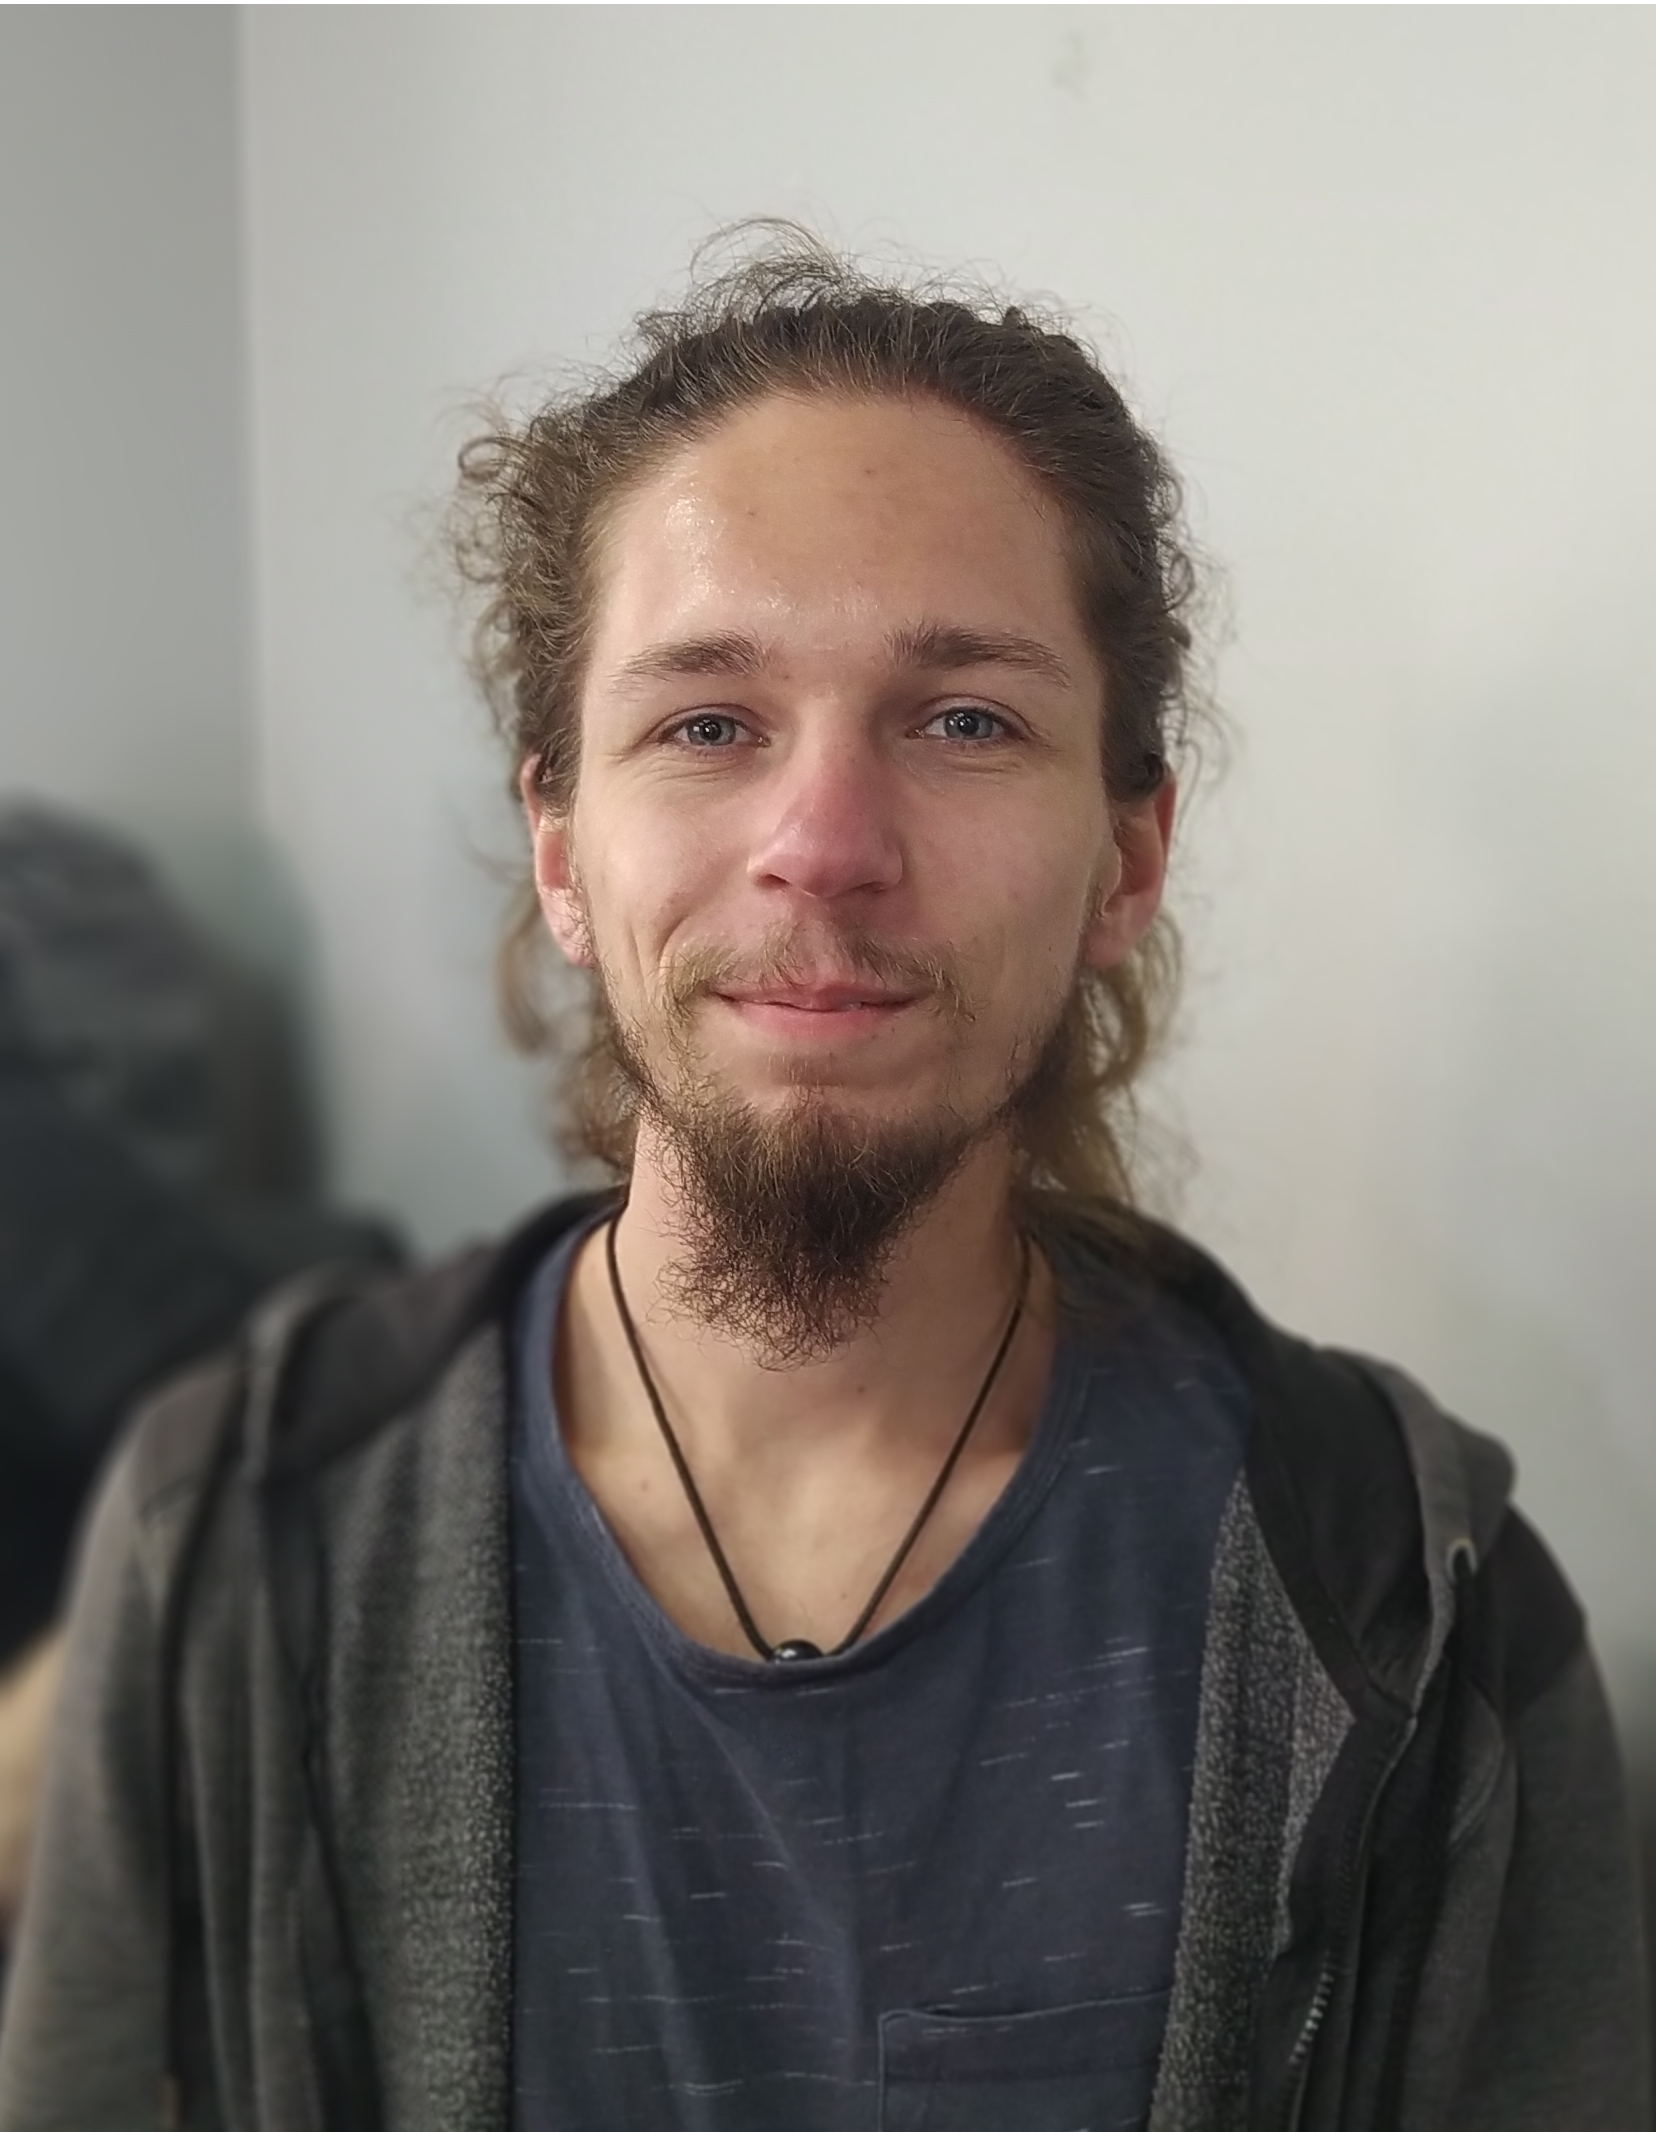
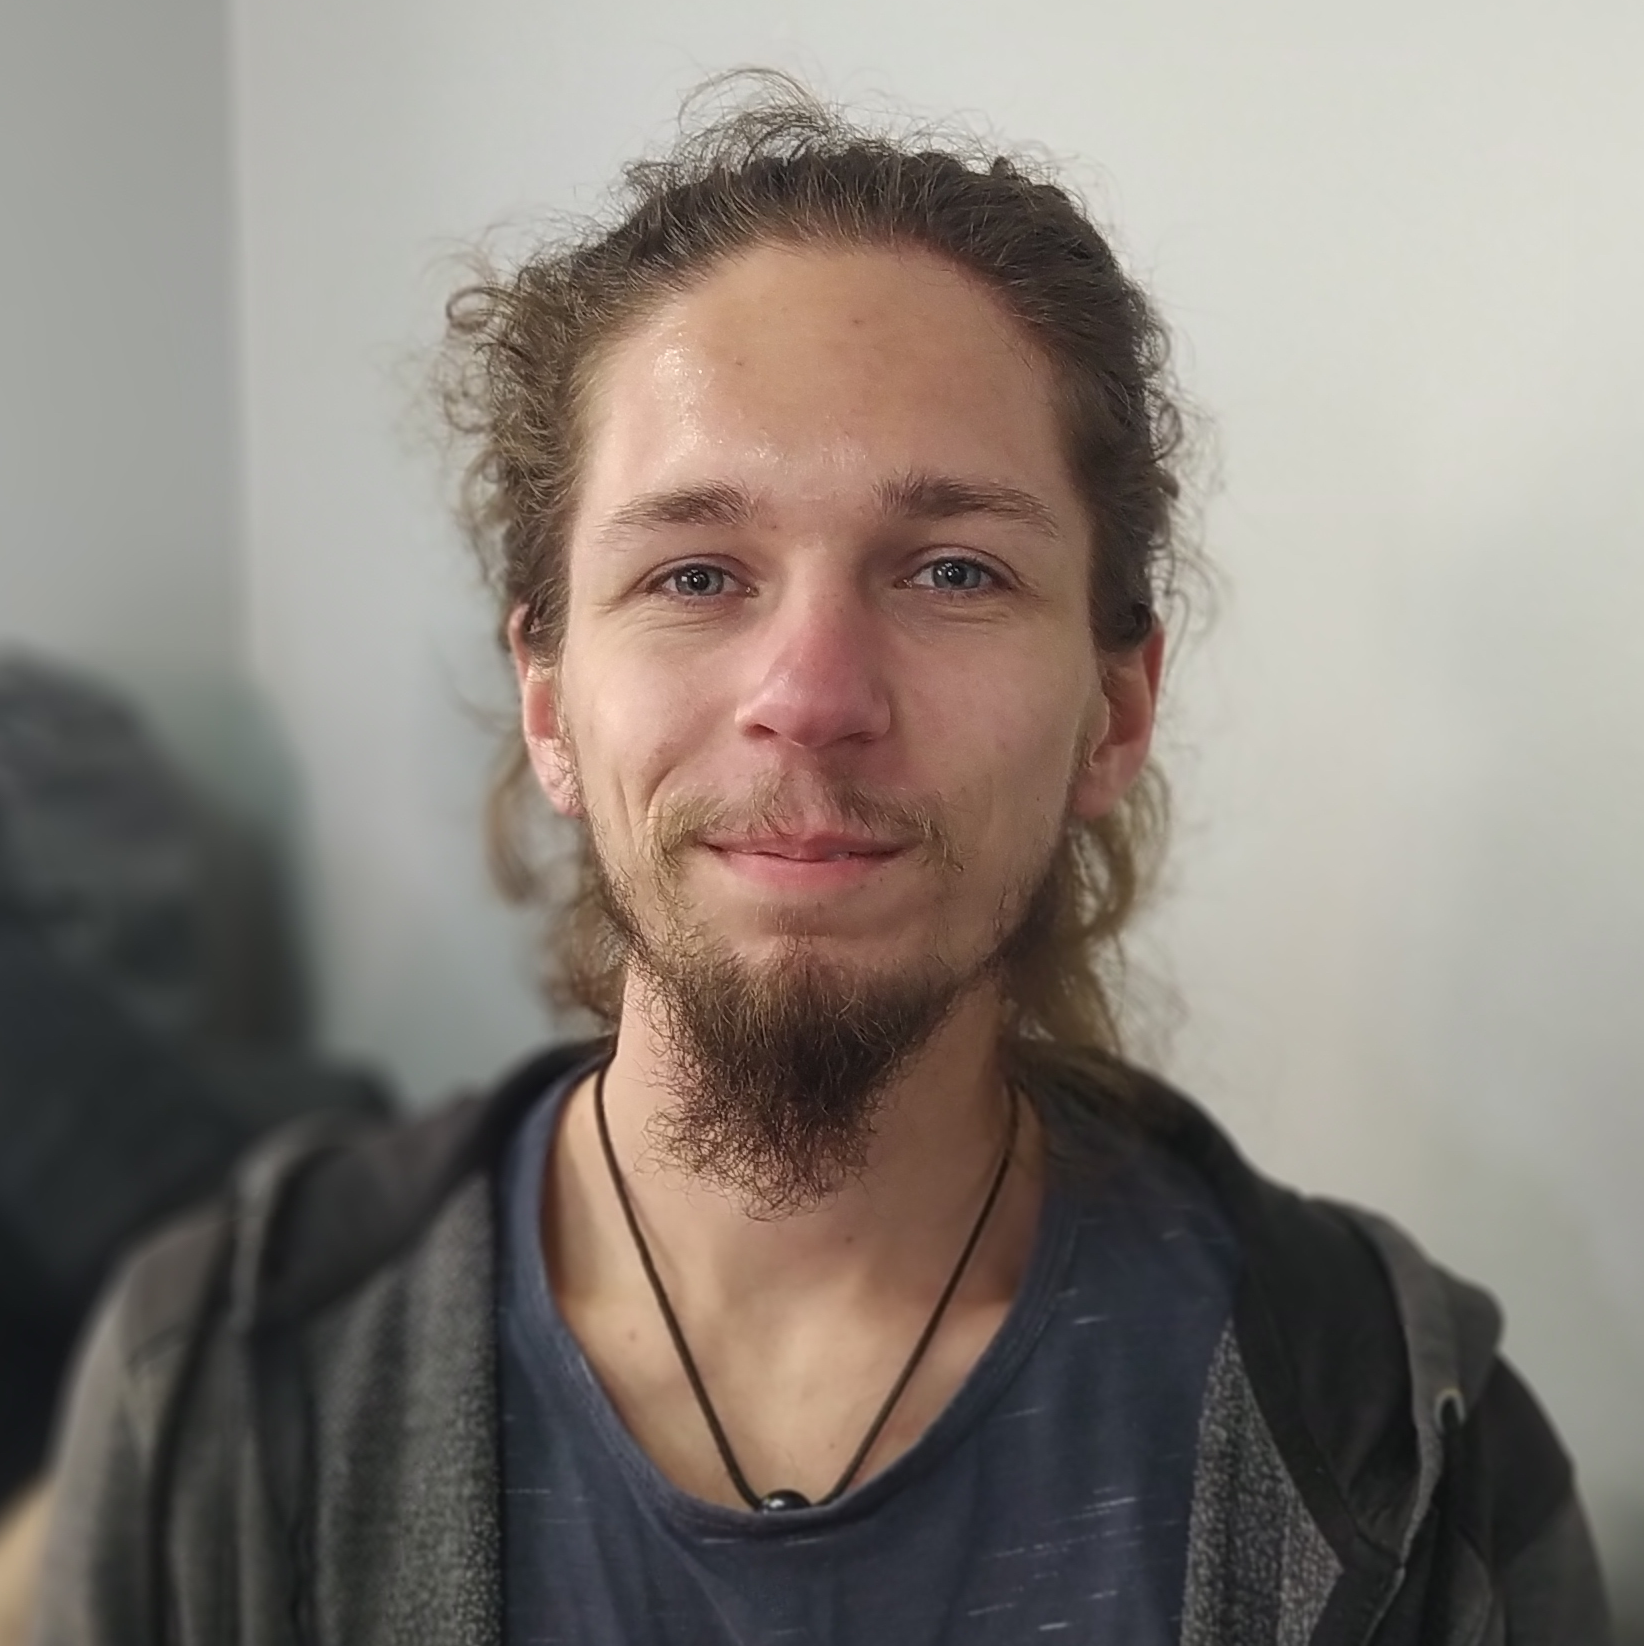
version 0.8.1

diff --git a/css/style.css b/css/style.css
@@ -13,13 +13,16 @@
     }
 }
 @media only screen and (max-width: 480px) {
-    .img_profil {
-        border-radius: 15px;
+    article {
+        padding-top: 80px;
     }
 }
 @media only screen and (max-width: 1024px) and (min-width: 480px) {
     section{
         margin: 0px 10% 0px 10%;
+    }
+    article {
+        padding-top: 80px;
     }
 }
 @media only screen and (min-width: 1024px) {
@@ -28,7 +31,9 @@
     }
     section {
         margin: 0px 10% 0px 10%;
-        transform: translateY(-600px);
+    }
+    #contact, #formation, #transversales, #experience {
+        padding-top: 80px;
     }
     #formation div, #experience div{
         margin: 80px 0px 80px 0px;
@@ -44,12 +49,10 @@
         align-items: center;
     }
     .img_about{
-        background-image: url(/image/ordinateur.jpg);
-        width: 100%;
-        height: 1000px;
+        background-image: url(/image/ordinateur1.jpg);
+        height: 520px;
         background-repeat: no-repeat;
         background-position: top;
-        transform: translateY(-500px);
     }
 }
 body{
@@ -249,9 +252,6 @@ section{
     padding-left: 10%;
     padding-right: 10%;
 }
-article{
-    padding-top: 80px;
-}
 h1, h2{
     text-transform: uppercase;
     margin-bottom: 15px;
@@ -280,7 +280,8 @@ hr{
 #contact li{
     list-style-type: none;
     text-align: left;
-    padding: 5px;
+    padding: 10px;
+    
 }
 #transversales li{
     list-style-type: none;
@@ -314,8 +315,9 @@ hr{
     margin-left: 15%;
 }
 .img_profil{
-    width: 100px;
+    width: 120px;
     height: 120px;
+    border-radius: 50%;
 }
 .footer{
     margin-top: 80px;

diff --git a/index.html b/index.html
@@ -15,7 +15,7 @@
             <div>
                 <ul>
                     <li id="logoDW_JS" class="logoDW"><img src="image/logoDW.png" alt="logo_dev.waves"></li>
-                    <li id="logoDWB_JS" class="logoDWB"><img src="image/logoDWB.png" alt="logo_dev.waves_blanc"></li>
+                    <li id="logoDWB_JS" class="logoDWB"><img src="image/logoDWB.png" alt="logo_dev.waves_Blanc"></li>
                     <li><i id="burger_menu"class="fa-solid fa-bars fa-3x"></i></li>
                 </ul>
             </div>
